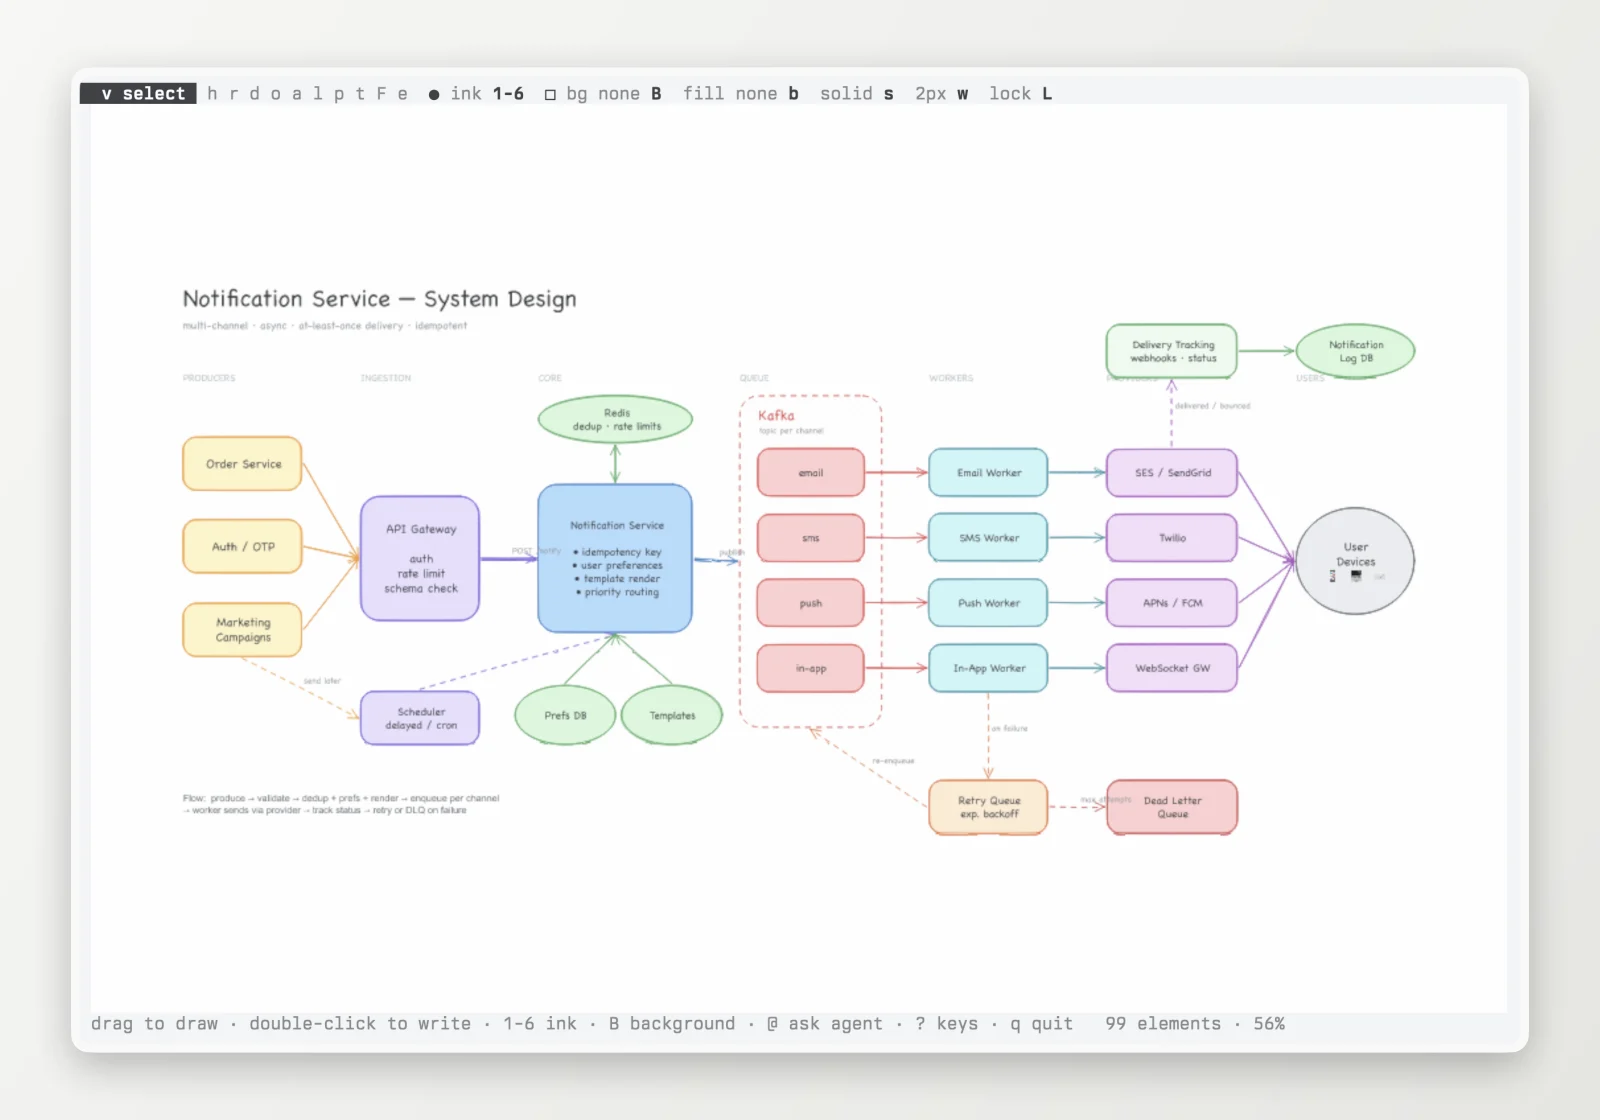
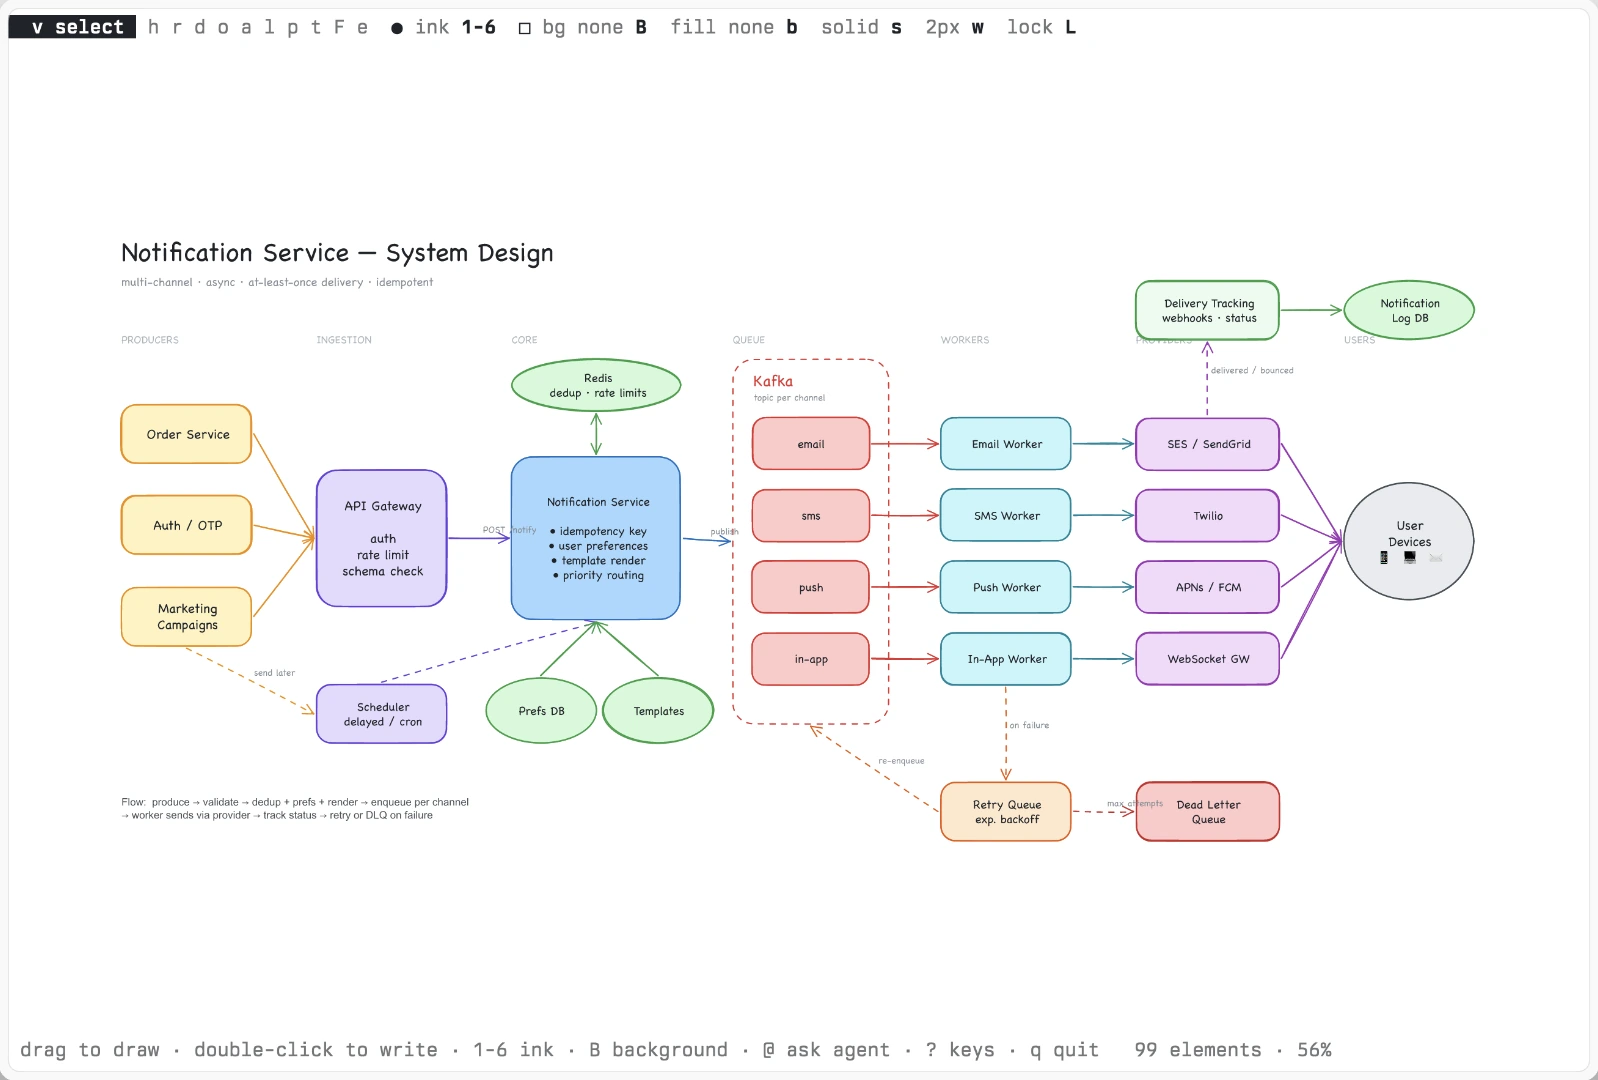
docs(site): Replace blurry whiteboard screenshot with a sharp one
Swap shots/board.webp for a crisp 1598x1080 capture and update the
img width/height to match.

Changed region(s): [[0.0, 0.0, 1.0, 1.0], [0.1533, 0.0611, 0.2146, 0.0917]]

diff --git a/site/public/index.html b/site/public/index.html
@@ -599,7 +599,7 @@
     <code class="run">leaf board</code>
     <div class="framed">
       <span class="scribble" style="top: 14%; left: 12%; --r: -3deg">just a .excalidraw file</span>
-      <img src="shots/board.webp" width="1600" height="1120" loading="lazy" alt="leaf's whiteboard showing a hand-drawn system design for a notification service, with producers, an API gateway, Kafka topics, workers and delivery providers connected by arrows.">
+      <img src="shots/board.webp" width="1598" height="1080" loading="lazy" alt="leaf's whiteboard showing a hand-drawn system design for a notification service, with producers, an API gateway, Kafka topics, workers and delivery providers connected by arrows.">
     </div>
   </section>
 
